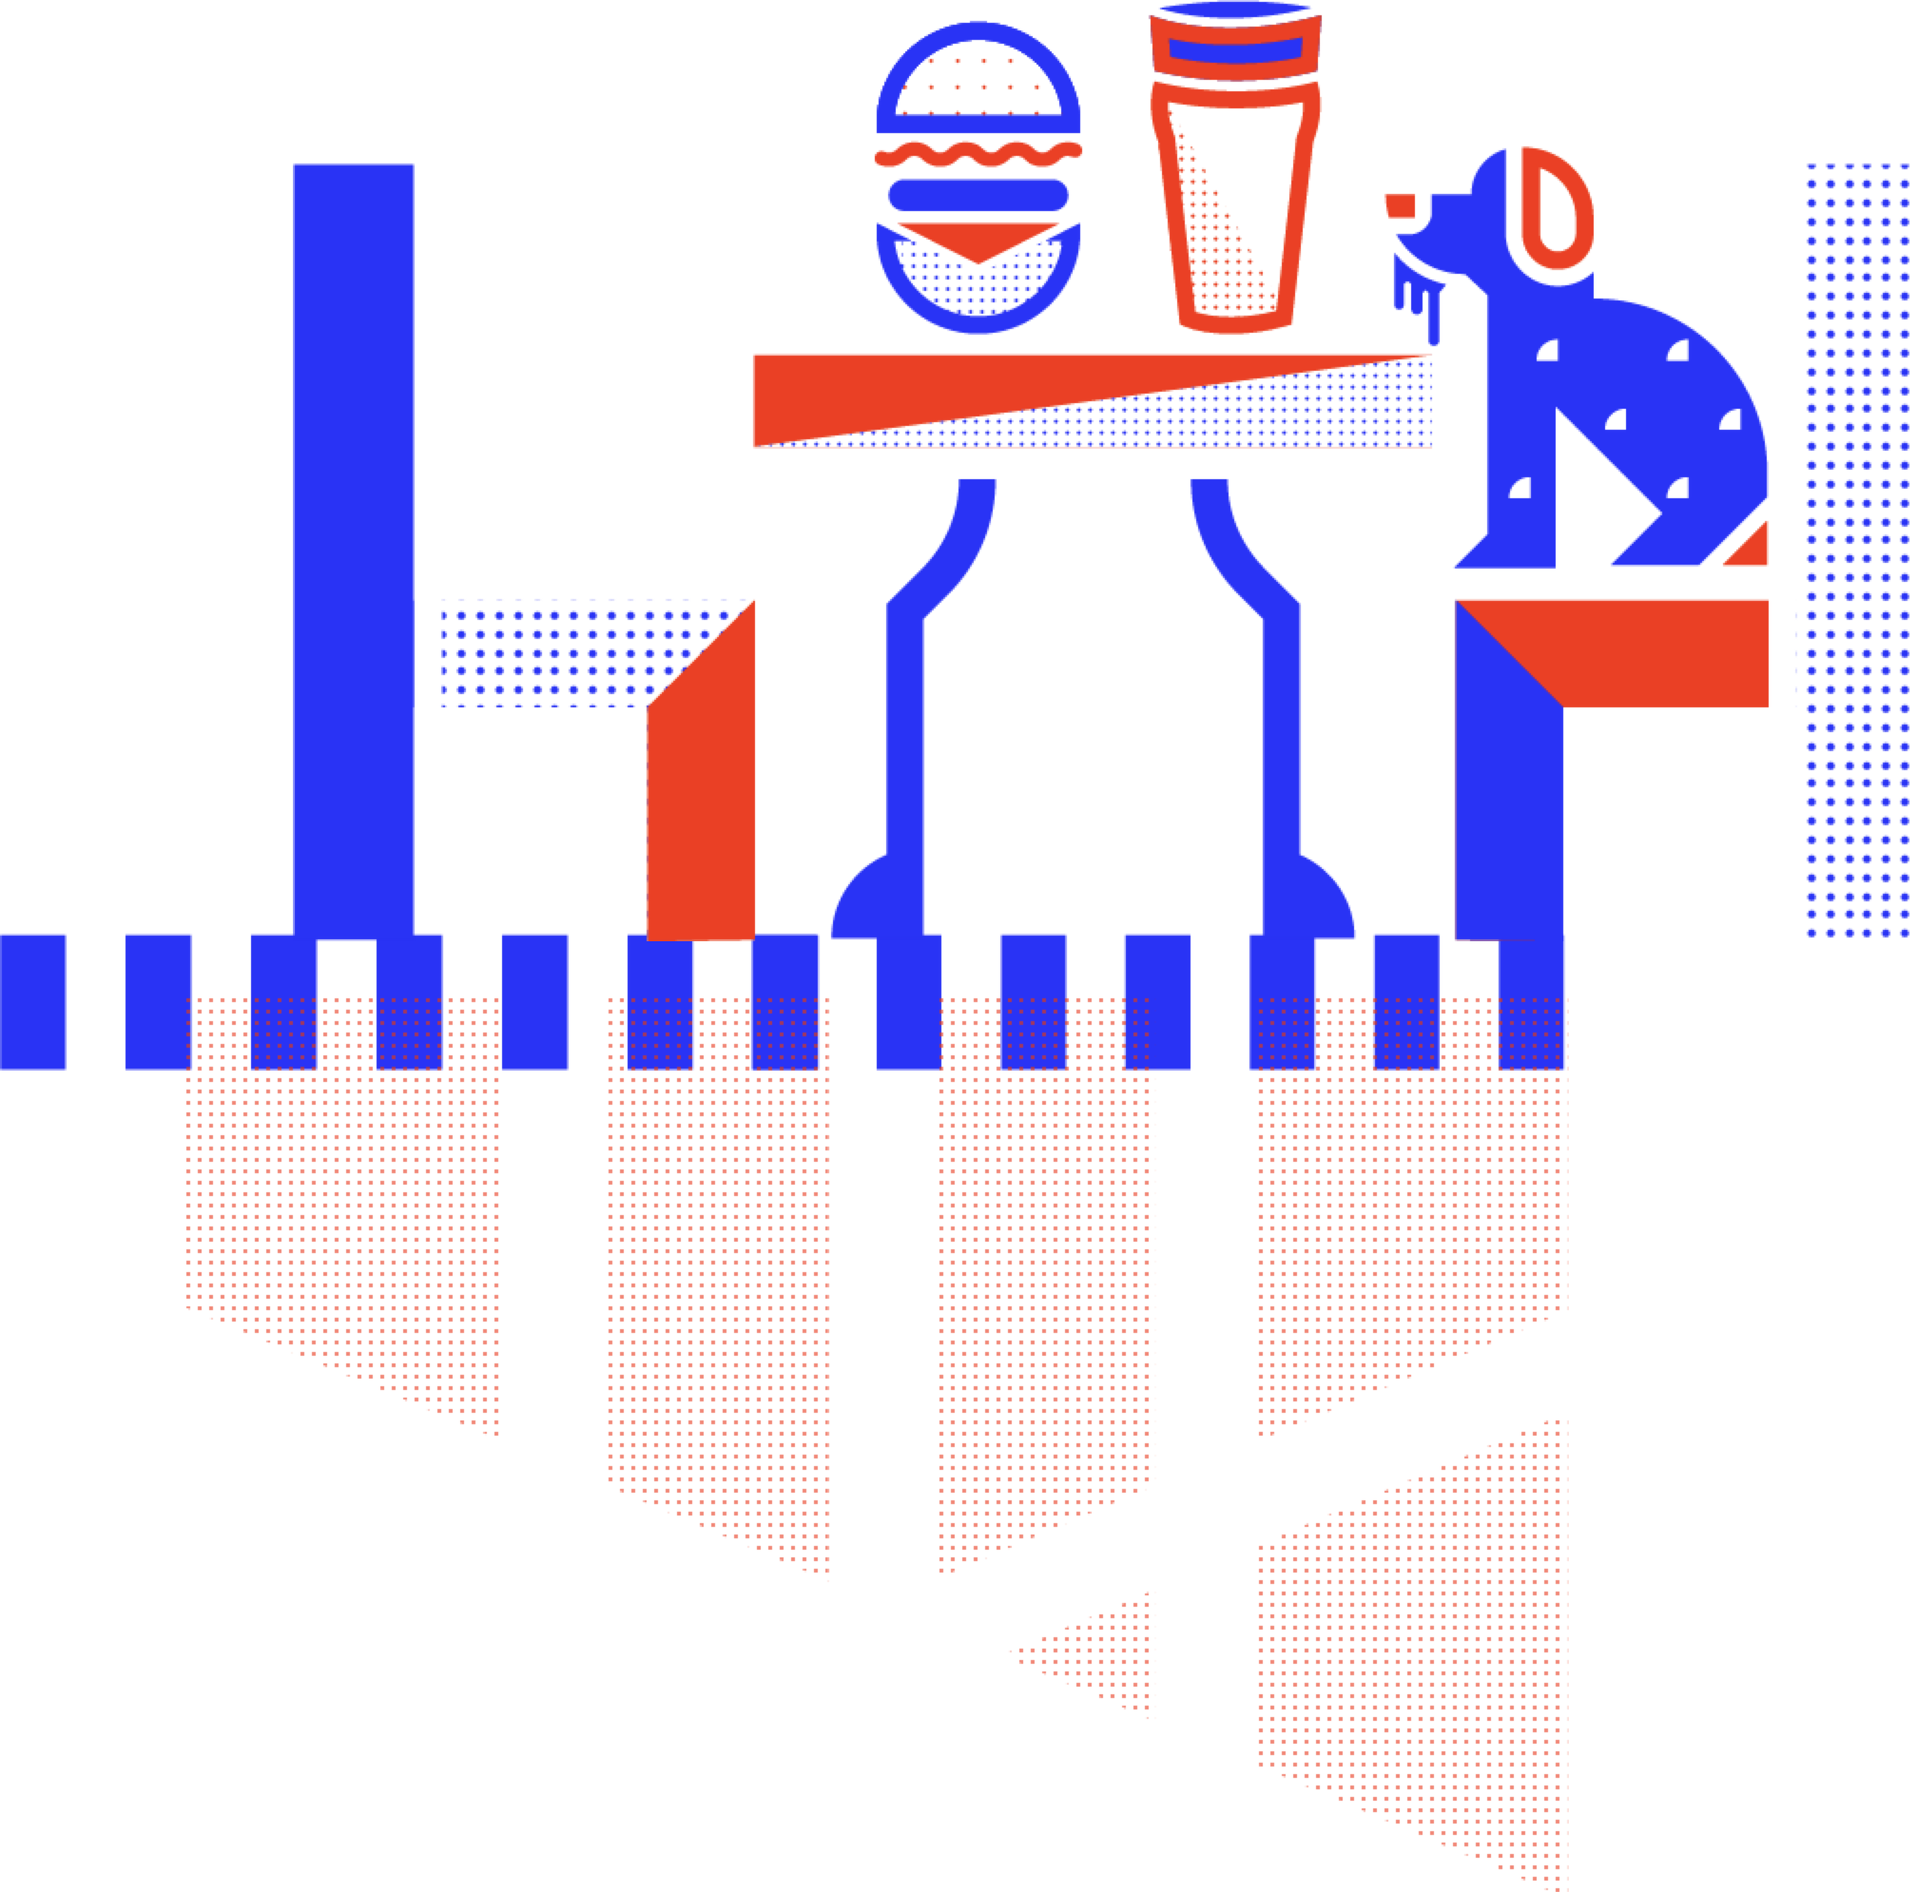
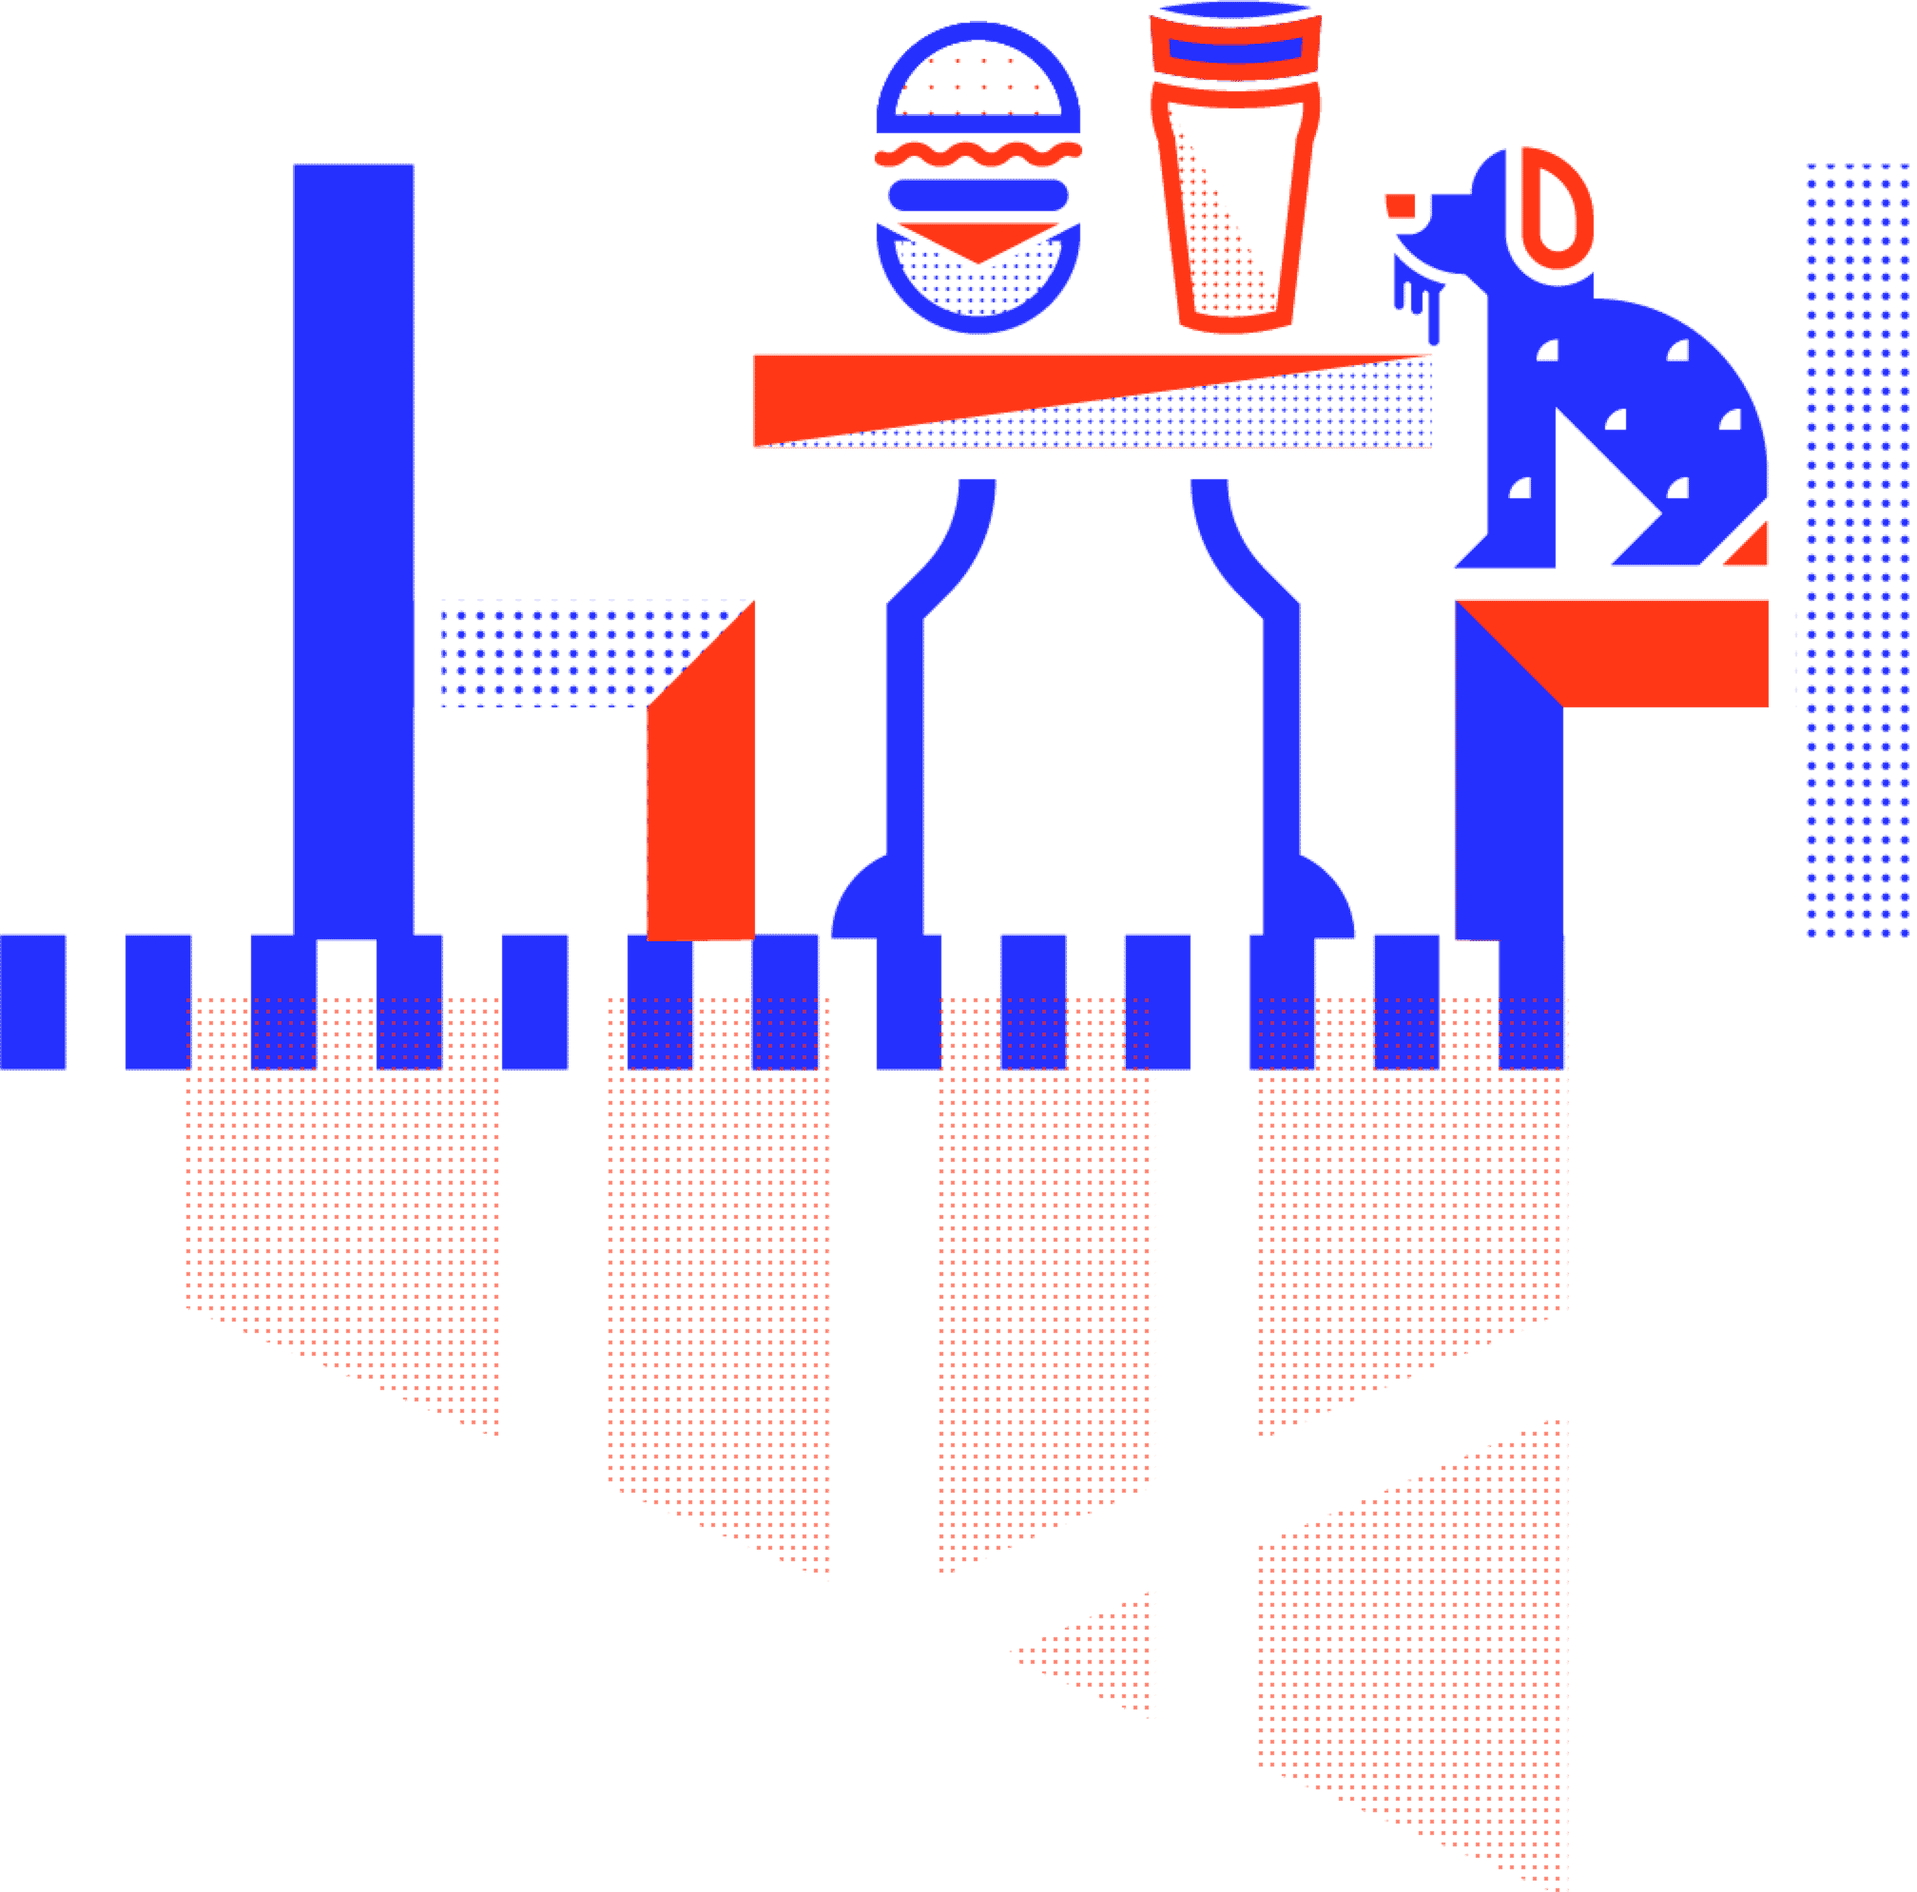
image swaps

diff --git a/_sass/components/brew-process.scss b/_sass/components/brew-process.scss
@@ -47,9 +47,10 @@
 
 img.process-tree {
     position: absolute;
-    width: 477px;
+    width: 569px;
     left: -32%;
     top: 0rem;
+    z-index: -3;
 }
 
 img.process-wheel {
@@ -66,19 +67,20 @@ img.process-wheel {
     }
 }
 
-// img.process-press {
-//
-//     width: 360px;
-//
-//     @media #{$media-max-tablet}{
-//         right: 0;
-//         left: 0;
-//         top: auto;
-//         bottom: -43px;
-//         margin: auto;
-//         width: 261px;
-//     }
-// }
+img.process-press {
+    width: 360px;
+    right: -26%;
+    top: -4rem;
+    position: absolute;
+    @media #{$media-max-tablet}{
+        right: 0;
+        left: 0;
+        top: auto;
+        bottom: -43px;
+        margin: auto;
+        width: 261px;
+    }
+}
 
 @mixin animateSprite($name, $frames, $img-width, $img-height, $image) {
     $sprite-width: $img-width / $frames;
@@ -94,6 +96,7 @@ img.process-wheel {
     100% { background-position: ($img-width /2); }
     }
 }
+
 
 #squeezy {
     right: -26%;
@@ -122,10 +125,10 @@ img.process-wheel {
     top: -10rem;
     z-index: -1;
     @include animateSprite(
-      $image: "/uploads/fermentsprite.png",
+      $image: "/uploads/sprite-brew.png",
       $name: "bubbly",
       $frames: 4,
-      $img-width: 4213px,
+      $img-width: 4234px,
       $img-height: 1336px,
     );
 

diff --git a/_includes/components/brew-process.html b/_includes/components/brew-process.html
@@ -14,7 +14,7 @@
                 data-from="top-middle"
                 data-to="bottom-top"
                 alt="">
-                <img class="process-tree xs-hide move-vert" src="/uploads/tree@2x.png" alt=""
+                <img class="process-tree xs-hide move-vert" src="/uploads/cchtreev2.gif" alt=""
                 data-modifier="-4"
                 data-from="top-bottom"
                 data-to="bottom-middle"
@@ -36,7 +36,8 @@
             data-from="top-middle"
             data-to="bottom-top"
             alt="">
-            <div id="squeezy"></div>
+            <img class="process-press" src="/uploads/smash.gif" alt="">
+            <!-- <div id="squeezy"></div> -->
         </div>
         <div class="my20 brew-process-item max-width-3 mx-auto relative illo-space">
                 <div class="sm-col-6 col-super-offset px3">
